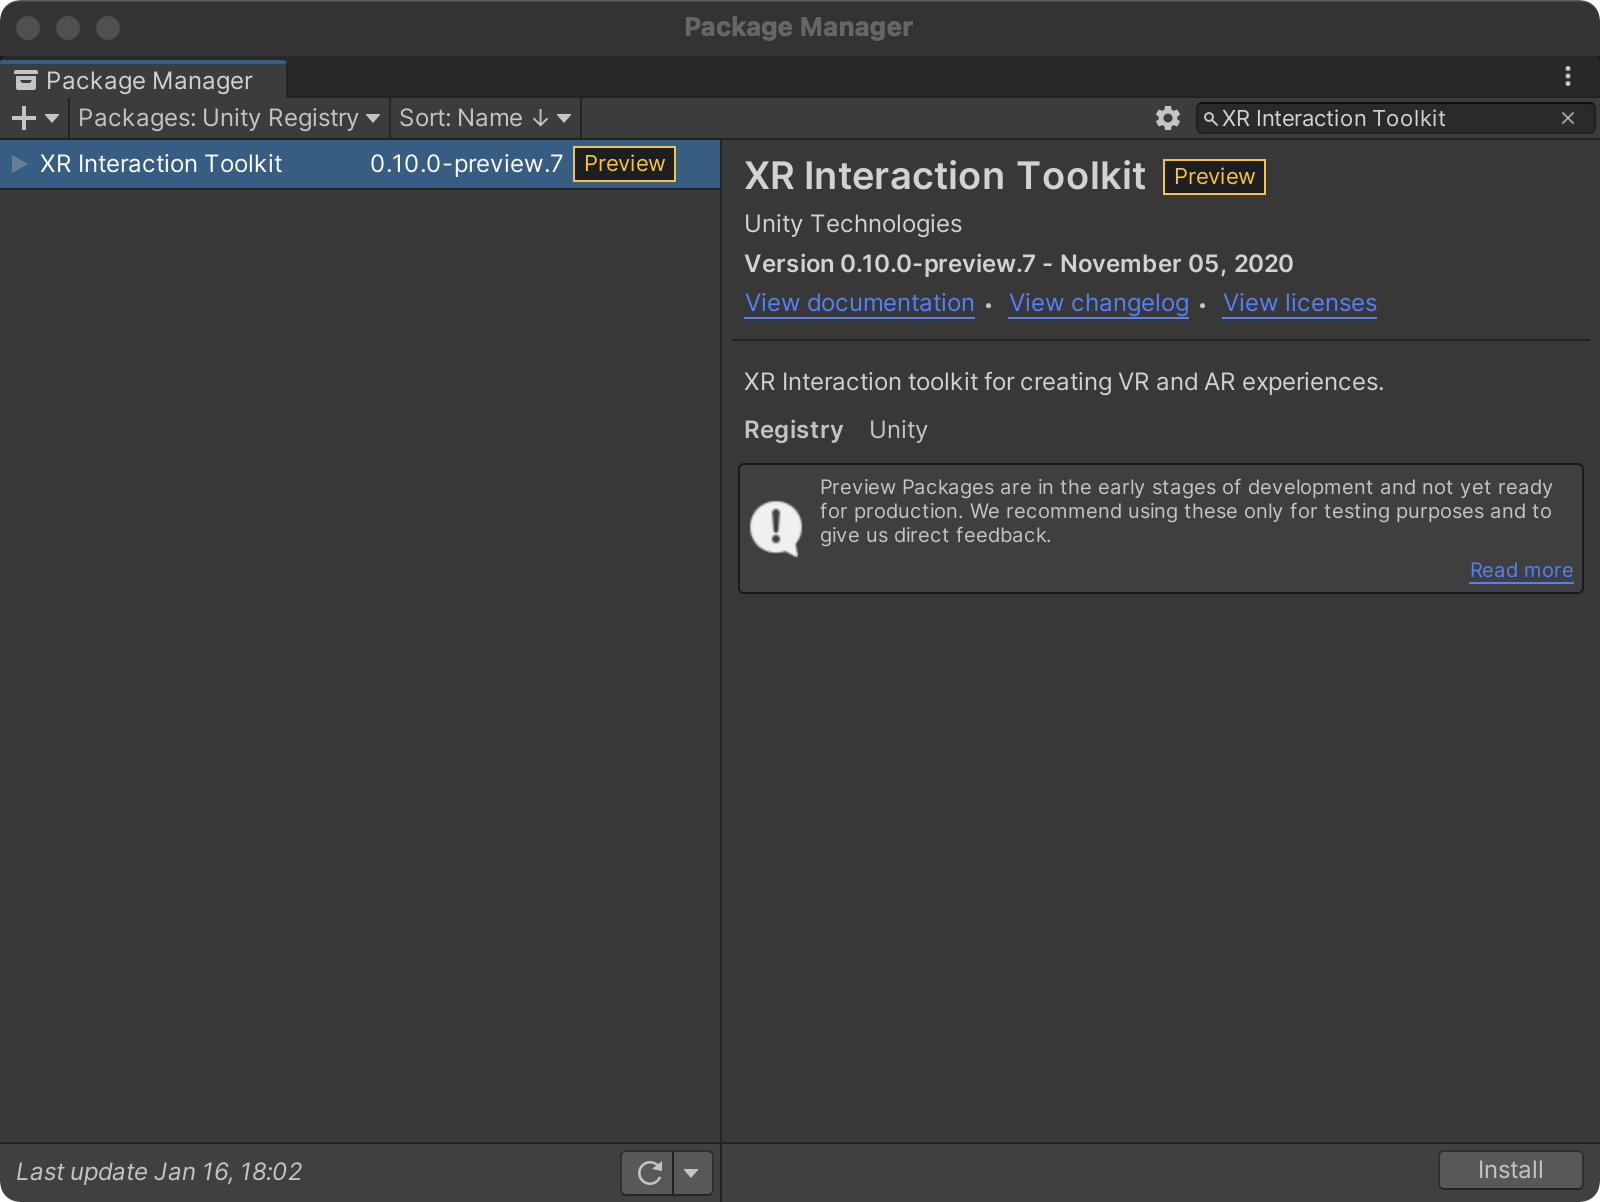
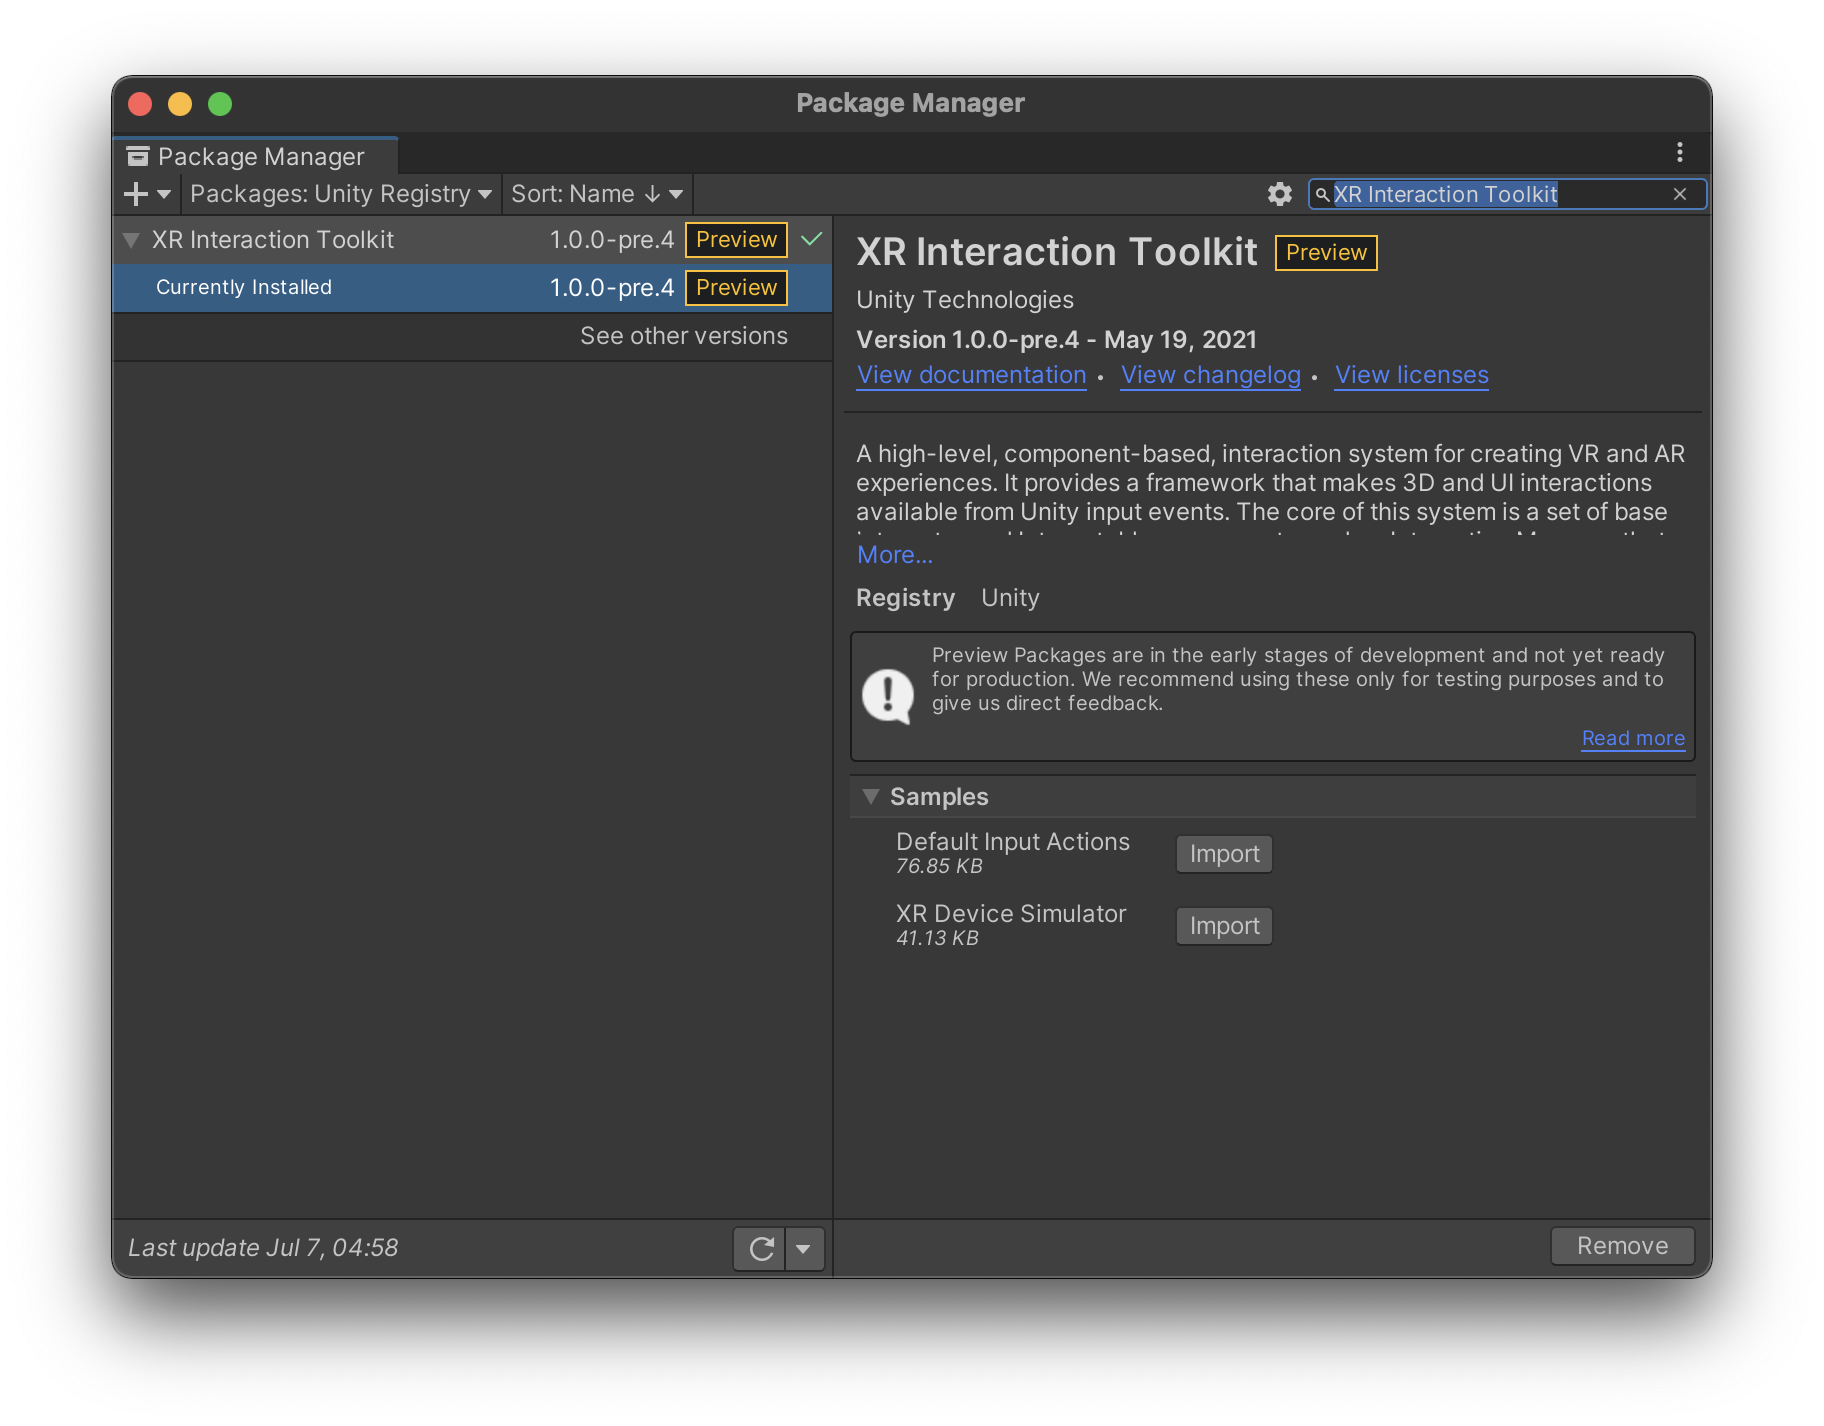
Updating unity

diff --git a/content/blog/getting-started-with-unity-and-vr/index.md b/content/blog/getting-started-with-unity-and-vr/index.md
@@ -70,6 +70,14 @@ Delete the following:
 - `Assets/TutorialInfo`
 - `Assets/Settings/SampleSceneProfile`
 
+We're ready to create our scene. In the `Scenes` folder in `Assets`, create a new scene called Game (select the folder, then right-click in the blank panel and select `Create` and then click `Scene`):
+
+![Unity Game Scene](../../assets/unity-scene-game.png)
+
+Double click to open it.
+
+### Installing packages
+
 Before we can build our game for the Oculus Quest, we'll need to add some packages. Some of the packages we'll need are very new. In current versions of Unity, you'll need to show the preview packages. To do this we'll need to enable preview packages in the Project Settings. Open the `Edit` menu and choose `Project Settings...`. Select `Package Manager` on the left then check the `Enable Preview Packages` checkbox:
 
 ![Unity package manager project settings](../../assets/unity-vr-project-settings-package-manager.png)
@@ -88,82 +96,83 @@ Find the `XR Interaction Toolkit`[^xr] package, select it, and click install:
 
 ![Unity XR Interaction Toolkit](../../assets/unity-xr-interaction-toolkit.png)
 
+You might see a warning about the "new input system package":
+
+![Unity new input system](../../assets/unity-new-input-system.png)
+
+Click "Yes" (which will restart Unity).
+
+Re-open the Package Manager and find the XR Interaction Toolkit package again. Open the "Samples" and install the Default Input Actions and the XR Device Simulator.
+
+Find the `OpenXR Plugin` package, select it, and click install:
+
+![Unity OpenXR Plugin](../../assets/unity-install-open-xr.png)
+
 Install the `Android Logcat` plugin as well:
 
 ![Unity Android Logcat](../../assets/unity-android-logcat.png)
 
-We're ready to create our scene. In the `Scenes` folder in `Assets`, create a new scene called Game (select the folder, then right-click in the blank panel and select `Create` and then click `Scene`):
+### Setting up the XR Plugins
 
-![Unity Game Scene](../../assets/unity-scene-game.png)
+Open the `Edit` menu and choose `Project Settings...`. Select `XR Plugin Management` on the left.
 
-Double click to open it.
+![Unity Install XR Plugin Management](../../assets/unity-install-xr-plugin-management.png)
 
-###
+Click, `Install XR Plugin Management`.
 
-1. Edit | Project Settings | XR Plugin Management | Install XR Plugin Management
-2. Edit | Project Settings | Packages | Enable Preview Packages
-3. Window Package Manager | Unity filter
-   1. Open XR
-   2. XR Interaction Toolkit
-      1. Install samples
-         1. Default Input Actions
-         2. XR Device Simulator
-4. Edit | Project Settings | XR Plugin Management
-   1. Select Open XR (Preview)
-   2. Click the red !
-      1. Fix All (restart)
-   3. Go to the Open XR Features submenu, then choose Oculus Touch (it will have a giant black screen)
+Once loaded, you'll see a list of plugins. Check the `Open XR` box. You should see a red warning icon next to the name of the plugin. Click it:
 
-5. (If you have a bug) - uncheck OpenXR and check Oculus
+![Unity XR Plugin Management Warning](../../assets/unity-xr-plugin-management-red-x.png)
 
-6. Go to Assets | Samples | XR Interaction Toolkit - Install all of the items
-7. Edit | Project Settings | Preset Manager
-   1. ActionBasedController: type Right and Left
+On the popup, click `Fix All`:
 
-8. Right click | XR | Room-Scale XR Rig (Action based)
-9. Select the XR Rig object and add Input Action Manager. Add 1 Action Assets element and set it to XRI Default Input Actions
-10. Right click | XR | Locomotion System
+![Unity Fix All](../../assets/unity-fix-all.png)
+
+If there are remaining warnings, that's okay, as long as the errors are fixed.
+
+Click the OpenXR sub-item on the left. Under `Interaction Profiles`, click the `+` icon and add the `Oculus Touch Controller Profile` item:
+
+![Unity Add Oculus Touch Controller Profile](../../assets/unity-xr-oculus-touch-controller-profile.png)
+
+Switch to the Android tab. You'll see a list of plugins. Check the `Oculus` box:
+
+![Unity XR Plugin Management Oculus](../../assets/unity-xr-plugin-management-android-oculus.png)
+
+### Setting up the presets
+
+Now that we have all of the plugins installed we want to setup the controls. Luckily, there are defaults for all of the action based inputs we would want to map. Back in the project `Assets`, open the `Samples` folder, `XR Interaction Toolkit` folder and within the specific version folder, find the `Default Input Actions` folder.
+
+![Unity XR Default Input Actions](../../assets/unity-xr-default-input-actions.png)
+
+Click on each item in the folder and click the `Add to...` button at the top of the inspector (if there is one):
+
+![Unity XR Add to Action Based Continuous Move](../../assets/unity-xr-add-to-action-based.png)
+
+Once you've added all of the defaults, open the `Project Settings` again and choose `Preset Manager`. Find the `ActionBasedController` section and next to `XRI Default Right Controller` type the word `Right`. Next to the `XRI Default Left Controller` type the word `Left`.
+
 ### Setting up XR
 
 To get started, we'll want to setup our scene so that our headset is tracked and is used as the primary camera. In general this is the way VR works: think about your eyes as cameras that are filming the world. As your head moves around your eyes move as well. In Unity we'll create a camera that tracks your head position and update the rendered view accordingly.
 
-In the Hierarchy tab create a new empty object called `XR` (to do this, right click on the `Game` node, select `GameObject` from the menu and choose `Create Empty`; then name the newly created object `XR`):
+In the Hierarchy tab create a new empty object called `Controller` (to do this, right click on the `Game` node, select `GameObject` from the menu and choose `Create Empty`; then name the newly created object `Controller`):
 
-![Unity Create Empty XR](../../assets/unity-create-empty-xr.png)
+![Unity Create Empty Controller](../../assets/unity-create-empty-controller.png)
 
-Select the object, set the `Y` position to `1`[^y-1] and add an `XR Rig` component.
+Within that object, right click and create a new `XR Rig (Action Based)` object.
 
-[^y-1]: Why did we set the `Y` to `1`? We'll be adding a one-meter tall "floor" for us to stand on. The actual height of the camera from the "floor" will be controlled by how the headset position is tracked in the `Tracking Origin Mode` (which we've set to the default: `Device`).
+Set the `Tracking Origin Mode` to `Device`. Then click `Add Component` and select `Input Action Manager`:
 
-![Unity add XR Rig component](../../assets/unity-add-xr-rig-component.png)
+![Unity Add Input Action Manager](../../assets/unity-xr-add-input-action-manager.png)
 
-Within the `XR` object create a new empty object:
+Back in the `Samples` folder, drag the `XRI Default Input Actions` object onto the `Input Action Manager` object's `Action Assets` list (drop it onto the `Action Assets` title).
 
-![Unity add empty object to the XR game object](../../assets/unity-add-camera-offset-game-object.png)
-
-Name it `Camera Offset`. Within the `Camera Offset` add a new Camera object:
-
-![Unity add camera](../../assets/unity-add-camera.png)
-
-Add a `Tracked Pose Driver` component to the Camera object:
-
-![Unity add tracked pose driver component](../../assets/unity-add-tracked-pose-driver-component.png)
-
-Set the `Tag` to `MainCamera`:
-
-![Unity add tracked pose driver component](../../assets/unity-set-main-camera-tag.png)
-
-That's all we need for now (this is just to get the scene running and visible; not pretty); we just need to wire things together. Select the `XR` object again. Then drag the child Camera object to `Camera Game Object` property on the `XR Rig` component. Drag the `Camera Offset` object to the `Camera Floor Offset Object` property.
-
-![Unity connect XR objects and cameras](../../assets/unity-connect-xr-objects.png)
-
-At this point we can remove the `Main Camera` game object; we'll be using the `XR` camera instead.
+![Unity Default Input Actions](../../assets/unity-xr-xri-default-input-actions.png)
 
 ### Creating a basic world
 
 We've created enough for our player to put on their headset and be in the world - but we haven't actually created anything for them to see. Let's add a basic platform for them to stand on and a table.
 
-Right click on the `Game` scene node in the Hierarchy panel, select `GameObject` then create a new `3D Object`, `Cube`:
+Right click on the `Game` scene node in the Hierarchy panel, select `GameObject` then create a new `3D Object`, `Plane`:
 
 ![Unity add floor object](../../assets/unity-add-floor-object.png)
 
